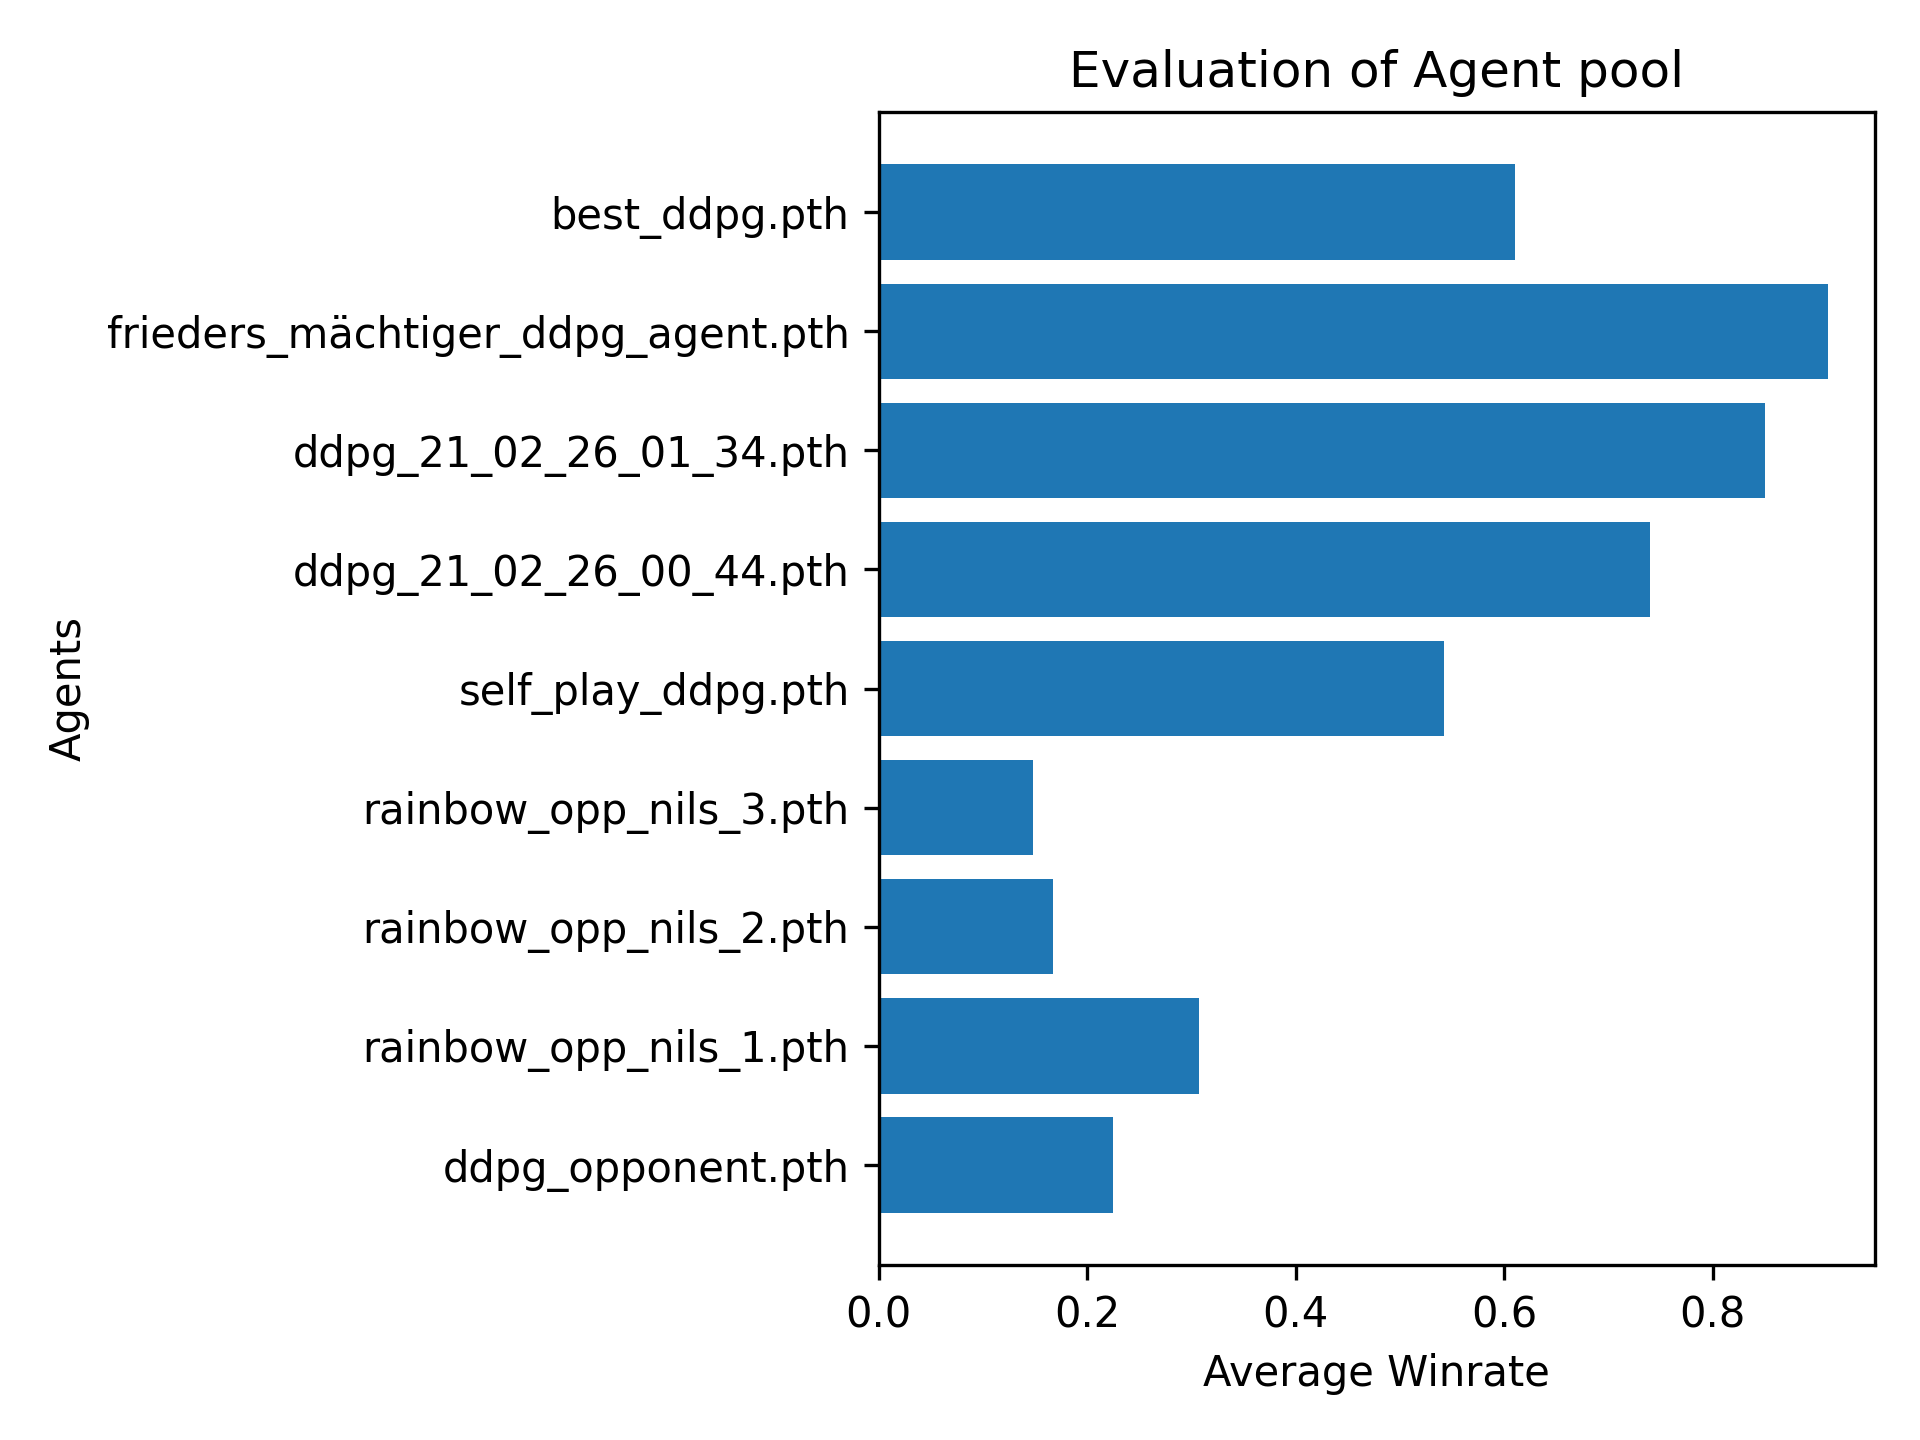
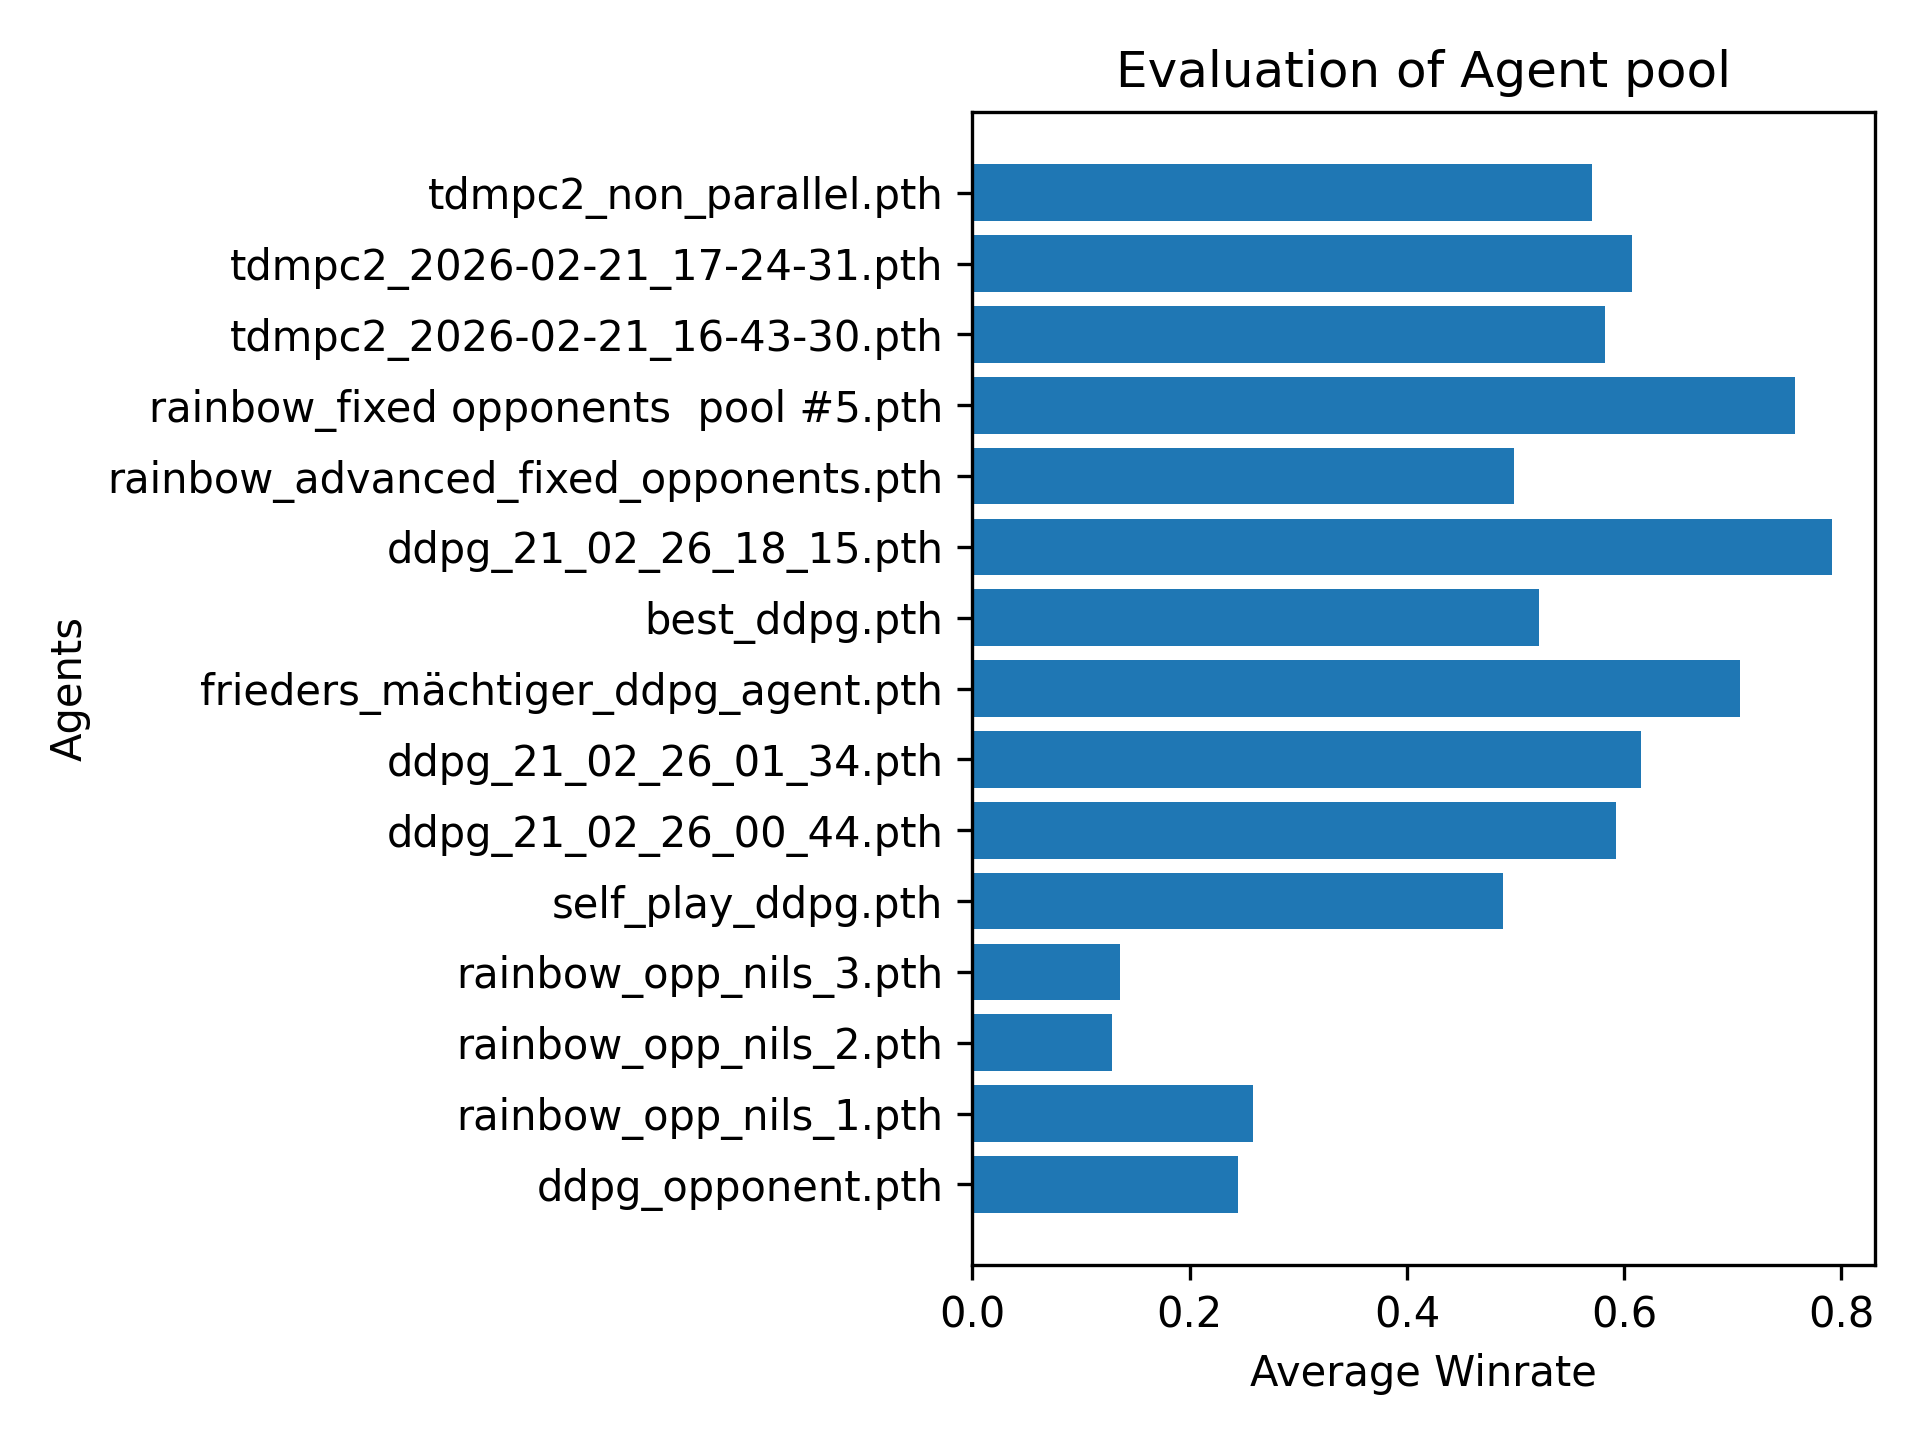
eval against strong and weak, in train added train against weak flag  and plotting modifications

diff --git a/eval.py b/eval.py
@@ -131,7 +131,103 @@ def evaluate_agents(
         plt.ylabel("Agents")
         plt.title("Evaluation of Agent pool")
         plt.tight_layout()
-        plt.savefig(os.path.join(population_path, "evaluation.png"), dpi=300)
+        plt.savefig(os.path.join(population_path, "evaluation_against_agent_pool.png"), dpi=300)
+        plt.close()
+
+
+def evaluate_agents_against_basic(
+            population_path,
+            weak=True,
+            num_episodes = 50):
+        
+        env = gym.envs.make("Hockey-One-v0", mode=0, weak_opponent=True)
+        base_obs_space = env.observation_space
+        base_act_space = env.action_space
+
+        env = DiscreteActionWrapperHockey(env)
+        state, info = env.reset()
+
+        n_observations = len(state)
+        n_actions = env.action_space.n
+        if weak:
+             opponent = "weakopp"
+        else:
+             opponent = "strongopp"
+
+        
+        agents = [f for f in os.listdir(population_path) if f.split(".")[1] == "pth"]
+        
+        N = len(agents)
+
+        average_winrate = dict()
+        
+        start = time.time()
+        for i in range(N):
+            end = time.time()
+            print(f"eval agents for agent " + agents[i] + f" {end-start} seconds passed")
+
+
+            agent_config_file = agents[i].split(".")[0] + ".yaml"
+            
+
+            agent_load_path = os.path.join(population_path, agents[i])
+            
+
+            agent_config_path = os.path.join(population_path, agent_config_file)
+            
+
+            with open(agent_config_path, "r") as f:
+                    agent_config = yaml.safe_load(f) or {}
+
+            
+
+            agent_architecture = str(agent_config.get("MODEL_IDENTIFIER", "")).strip().lower()
+            
+
+            # ----- load agent -----
+            if agent_architecture == "rainbow":
+                agent = RainbowAgent(
+                        n_observations=n_observations,
+                        n_actions=n_actions,
+                        config_path=agent_config_path
+                )
+                agent.load_dict(agent_load_path)
+            elif agent_architecture == "ddpg":
+                agent = DDPGAgent(
+                    observation_space=base_obs_space,
+                    action_space=base_act_space,
+                    config_path=agent_config_path
+                )
+                agent.load_dict(agent_load_path)
+            elif agent_architecture == "tdmpc2":
+                agent =  TDMPC2Agent(
+                    action_space=base_act_space,
+                    observation_space=base_obs_space,
+                    config_path=agent_config_path
+                )
+                agent.load_dict(agent_load_path)
+            else:
+                raise NotImplementedError
+            
+        
+            
+
+            agent_won_proportion = agent_against_agent_eval(agent, opponent, num_episodes = num_episodes)
+            average_winrate[agents[i]] = agent_won_proportion
+            
+               
+
+        
+        
+
+
+        
+        plt.barh(list(average_winrate.keys()), list(average_winrate.values()))
+        plt.xlabel("Average Winrate")
+        plt.ylabel("Agents")
+        plt.title(f"Pool eval against {opponent}")
+        plt.tight_layout()
+        plt.savefig(os.path.join(population_path, f"evaluation_against_{opponent}.png"), dpi=300)
         plt.close()
 
 
@@ -146,6 +242,15 @@ def agent_against_agent_eval(
         obs, info = env.reset()
         obs_agent2 = env.obs_agent_two()
         score = {"player1": 0, "player2": 0}
+
+        if isinstance(player2, str):
+            key = player2.lower()
+            if key in {"basicopp", "basicopponent"}:
+                player2 =  h_env.BasicOpponent()
+            if key in {"strongopp", "strongopponent"}:
+                player2 = h_env.BasicOpponent(weak=False)
+            if key in {"weakopp", "weakopponent"}:
+                player2 = h_env.BasicOpponent(weak=True)
 
         for _ in range(num_episodes):
             d = False
@@ -193,5 +298,13 @@ def discrete_to_continuous(discrete_action):
 
 if __name__ == "__main__":
     evaluate_agents(
-          population_path="/home/stud217/hockey007/experiments_rainbow/fixed_opponent_pool #5"
+          population_path="/home/stud217/hockey007/self_play_opponent_pool"
+    )
+    evaluate_agents_against_basic(
+          population_path="/home/stud217/hockey007/self_play_opponent_pool",
+          weak=False
+    )
+    evaluate_agents_against_basic(
+          population_path="/home/stud217/hockey007/self_play_opponent_pool",
+          weak=True
     )

diff --git a/Train.py b/Train.py
@@ -26,7 +26,8 @@ class Training():
         env = None,
         base_dir = "experiments",
         save_intermediate_agents: bool = False,
-        verbose=False
+        verbose=False,
+        weak=True
         ):
         
         self.statistics = {
@@ -43,7 +44,10 @@ class Training():
         self.base_dir = base_dir
         self.save_intermediate_agents = save_intermediate_agents
         self.verbose = verbose
+        self.weak = weak
         self.mavg_window_size = int(self.agent.NUM_EPISODES / 100)
+
+        self.opponent_name = "strong opponent" if not self.weak else "weak opponent"
 
         self.device = torch.device("cuda" if torch.cuda.is_available() else "cpu")
 
@@ -202,7 +206,7 @@ class Training():
                         f"\n** after {episodes_finished} th episode - {end - start:.5f} sec passed**\n"
                     )
             
-
+        self.agent_eval = self.agent_against_basicopp_eval(self.agent, weak=self.weak)
         self.save_data()
 
         if type(self.agent) == RainbowAgent:
@@ -221,9 +225,14 @@ class Training():
         
         plt.xlabel("Episode Number")
         plt.ylabel("Rewards per Episode")
-        plt.title(f"Rewards per Episode over Time. Mean Evaluation Score: {mean_eval_score:.3f}")
+        
+        plt.title(f"Training against the {self.opponent_name}. Final average winrate: {self.agent_eval:.2f}")
         plt.savefig(os.path.join(self.experiment_path, f"episode_rewards-{self.agent.MODEL_IDENTIFIER}.png"), dpi=300)
         plt.close()
+
+        np.save(os.path.join(self.experiment_path, f"ep_rew_data-{self.agent.MODEL_IDENTIFIER}.npy"), np.array(self.statistics["ep_rew"]))
+        np.save(os.path.join(self.experiment_path, f"mv_avg_rew_data-{self.agent.MODEL_IDENTIFIER}.npy"), np.array(self.statistics["mv_avg_rew"]))
+
 
         # ------ create loss plot ------
         plt.figure(figsize=(8, 6), dpi=300)
@@ -233,6 +242,8 @@ class Training():
         plt.title("Training Loss per Time Step")
         plt.savefig(os.path.join(self.experiment_path, f"training_losses-{self.agent.MODEL_IDENTIFIER}.png"), dpi=300)
         plt.close()
+
+        np.save(os.path.join(self.experiment_path, f"training_losses_data-{self.agent.MODEL_IDENTIFIER}.npy"), np.array(self.statistics["tr_loss"]))
 
     def save_q_values(self):
         # ------ create q-value plot ------
@@ -245,6 +256,10 @@ class Training():
         plt.title("Training Loss per Time Step")
         plt.savefig(os.path.join(self.experiment_path, f"q_values-{self.agent.MODEL_IDENTIFIER}.png"), dpi=300)
         plt.close()
+
+        np.save(os.path.join(self.experiment_path, f"mean_q_values_data-{self.agent.MODEL_IDENTIFIER}.npy"), np.array(self.statistics["mean_q"]))
+        np.save(os.path.join(self.experiment_path, f"max_q_values_data-{self.agent.MODEL_IDENTIFIER}.npy"), np.array(self.statistics["max_q"]))
+        np.save(os.path.join(self.experiment_path, f"min_q_values_data-{self.agent.MODEL_IDENTIFIER}.npy"), np.array(self.statistics["min_q"]))
 
     
     def train_self_play(
@@ -1074,11 +1089,11 @@ class Training():
         else:
             p = random.random()
             if p < 0.2:
-                self.opponent = h_env.BasicOpponent(weak=False)
-                self.last_selected_opponent_info = "fixed_pool_strong_basic"
-            elif p < 0.4:
                 self.opponent = h_env.BasicOpponent(weak=True)
                 self.last_selected_opponent_info = "fixed_pool_weak_basic"
+            elif p < 0.6:
+                self.opponent = h_env.BasicOpponent(weak=False)
+                self.last_selected_opponent_info = "fixed_pool_strong_basic"
             else:
                 pool = self._load_population_pool(self.fixed_opponents_path, source="fixed_pool")
                 if pool:

diff --git a/main.py b/main.py
@@ -19,6 +19,7 @@ def main ():
     parser.add_argument ( '--play', default=False, action="store_true", help="Let an agent play against the basic opponent" )
     parser.add_argument ( '--agent', type=str, default="rainbow", help = "Specify the agent to use for training/evaluation")
     parser.add_argument ( '--num_parallel_envs', type=int, default=1, help = "Number of parallel environments to use during training")
+    parser.add_argument ( '--train_against_weak', default=False, action="store_true", help="Train against the weak opponent" )
 
     parser.add_argument ( '--playagent_1_type', type=str, default="rainbow", help = "Specify the agent 1 to use for evaluation")
     parser.add_argument ( '--playagent1_path', type=str, default=None, help = "Path to the trained agent 1 for evaluation")
@@ -45,7 +46,8 @@ def main ():
             args.base_dir, 
             args.int_agents, 
             args.verbose,
-            num_parallel_envs = args.num_parallel_envs
+            num_parallel_envs = args.num_parallel_envs, 
+            weak=args.train_against_weak
             )
 
     elif args.train_self_play:
@@ -56,8 +58,7 @@ def main ():
             save_intermediate_agents=args.int_agents, 
             verbose=args.verbose, 
             agent_load_path=args.playagent1_path,
-            population_path=args.pop_path,
-            num_parallel_envs=args.num_parallel_envs)
+            population_path=args.pop_path)
 
     elif args.play:        
         core.play(
@@ -68,17 +69,6 @@ def main ():
             agent1_config=args.playagent1_config, 
             agent2_path=args.playagent2_path, 
             agent2_config=args.playagent2_config)
-            
-    elif args.exploit:
-        core.exploit_agent(
-            agent_name=args.agent, 
-            env_name=args.env, 
-            base_dir=args.base_dir, 
-            save_intermediate_agents=args.int_agents, 
-            verbose=args.verbose, 
-            agent_load_path=args.playagent1_path,
-            population_path=args.pop_path,
-            num_parallel_envs=args.num_parallel_envs)
 
 
 

diff --git a/Core.py b/Core.py
@@ -24,7 +24,8 @@ class Core:
             save_intermediate_agents: bool = False,
             verbose=False,
             bins = 5,
-            num_parallel_envs = 1):
+            num_parallel_envs = 1,
+            weak=True):
         
         print(agent_name)
         
@@ -33,7 +34,7 @@ class Core:
                 return gym.make(env_name)
         elif env_name == "Hockey-One-v0":
             def make_env():
-                return gym.envs.make("Hockey-One-v0", mode=0, weak_opponent=True)
+                return gym.envs.make("Hockey-One-v0", mode=0, weak_opponent=weak)
         else:
             raise NotImplementedError
 
@@ -89,7 +90,7 @@ class Core:
         
 
         
-        train_class = Training(agent, env, base_dir, save_intermediate_agents, verbose)
+        train_class = Training(agent, env, base_dir, save_intermediate_agents, verbose, weak)
         train_class.train()
 
     

diff --git a/agents/RainbowAgent.py b/agents/RainbowAgent.py
@@ -27,7 +27,6 @@ class RainbowAgent(Agent):
             eval_mode = True
             ):
 
-        print(config_path)
         # ------ load configs from "rainbow_config.yaml" ------
         with open(config_path, 'r') as f:
             config = yaml.safe_load(f)
